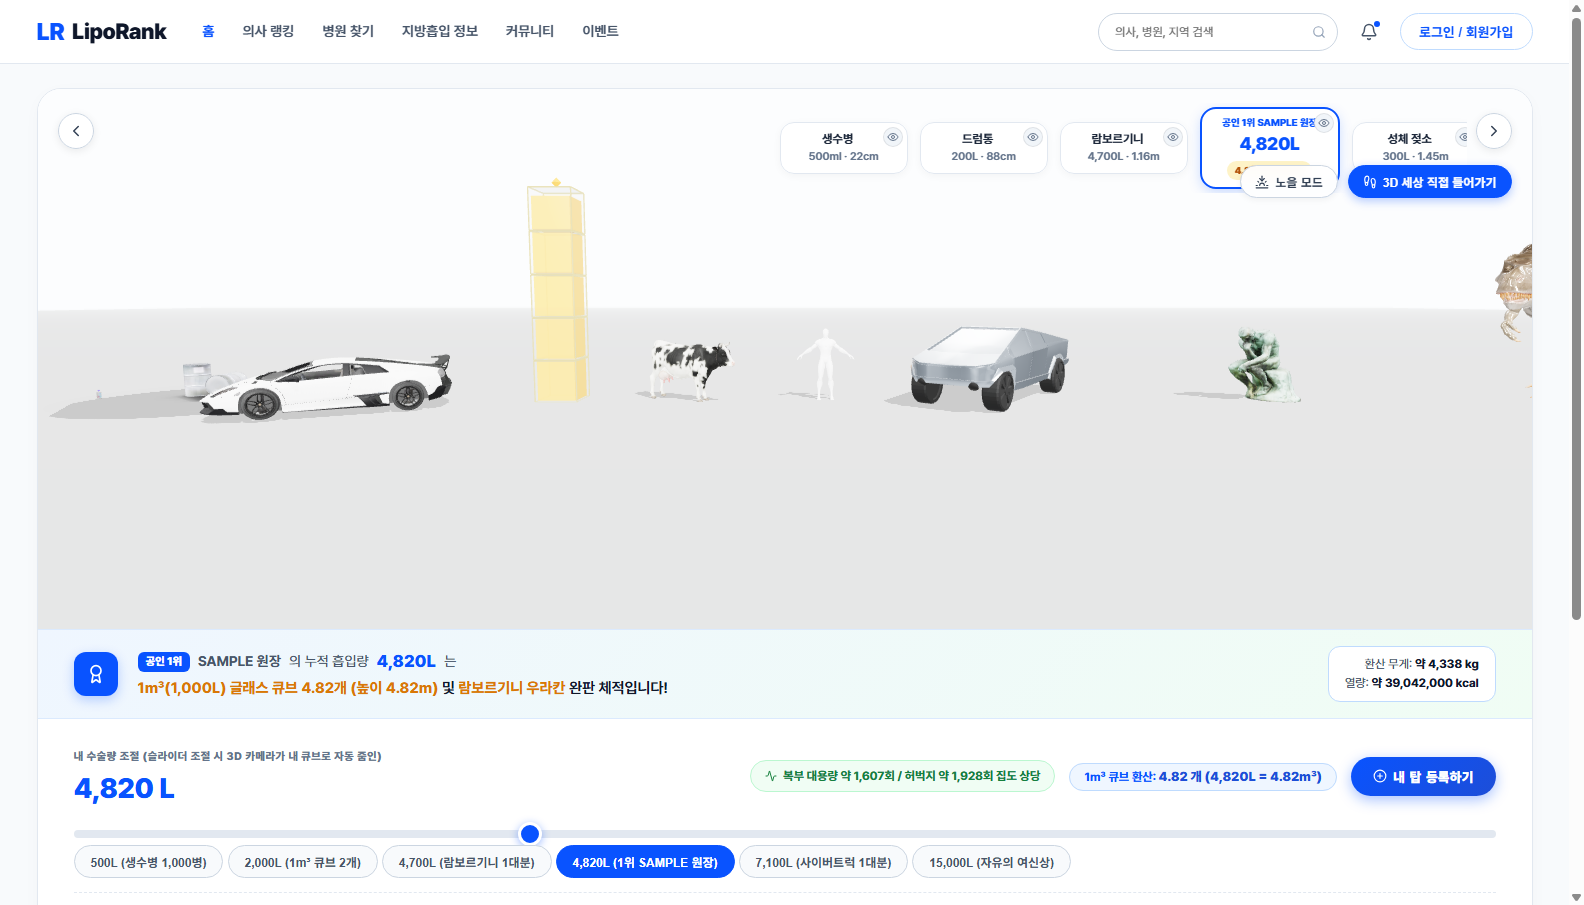
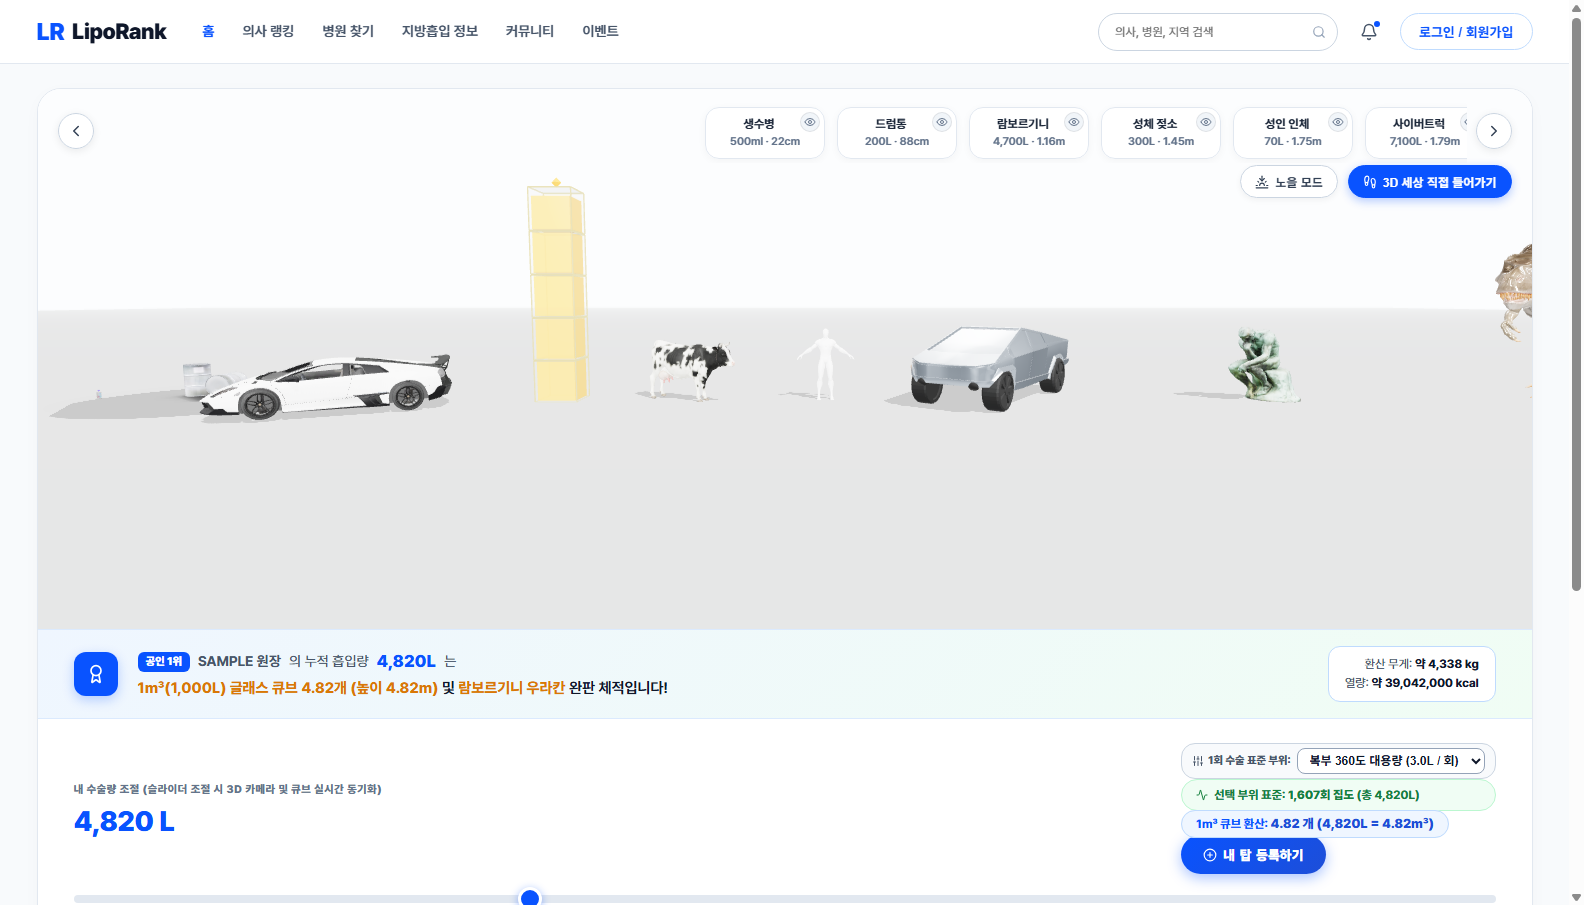
feat: real-time part standardizer (admerest formula style), sequential 5-item ribbon without sample tower, keep ribbon in giant view, esc centers on viewed object, smooth cube height sync

Changed region(s): [[0.0309, 0.8044, 0.959, 1.0], [0.464, 0.1238, 0.928, 0.2166], [0.9899, 0.6497, 1.0, 0.6807]]

diff --git a/app.js b/app.js
@@ -169,23 +169,27 @@ class LipoRankApp {
       });
     });
 
-    // 3. Carousel Navigation (< and >)
+    // 3. Carousel Navigation (< and >): Scroll ribbon by 1 item without moving 3D camera
     if (this.btnPrev) {
       this.btnPrev.addEventListener('click', () => {
-        const currIdx = COMPARISON_OBJECTS.findIndex(c => c.id === this.scene.activeObjectId);
-        const prevIdx = (currIdx - 1 + COMPARISON_OBJECTS.length) % COMPARISON_OBJECTS.length;
-        const targetId = COMPARISON_OBJECTS[prevIdx].id;
-        this.scene.enterGiantView(targetId);
-        this.updateObjectTabs(targetId);
+        if (!this.labelsOverlay) return;
+        const itemWidth = this.labelsOverlay.clientWidth / 5;
+        this.labelsOverlay.scrollBy({ left: -itemWidth, behavior: 'smooth' });
       });
     }
     if (this.btnNext) {
       this.btnNext.addEventListener('click', () => {
-        const currIdx = COMPARISON_OBJECTS.findIndex(c => c.id === this.scene.activeObjectId);
-        const nextIdx = (currIdx + 1) % COMPARISON_OBJECTS.length;
-        const targetId = COMPARISON_OBJECTS[nextIdx].id;
-        this.scene.enterGiantView(targetId);
-        this.updateObjectTabs(targetId);
+        if (!this.labelsOverlay) return;
+        const itemWidth = this.labelsOverlay.clientWidth / 5;
+        this.labelsOverlay.scrollBy({ left: itemWidth, behavior: 'smooth' });
+      });
+    }
+
+    // Realtime Standardizer Part Selector change listener
+    const selPart = document.getElementById('sel-surgery-part');
+    if (selPart) {
+      selPart.addEventListener('change', () => {
+        this.updateAllTexts(this.currentLiters, this.scene.activeObjectId);
       });
     }
 
@@ -339,14 +343,16 @@ class LipoRankApp {
     if (this.walkinHud) {
       this.walkinHud.classList.toggle('active', isWalkin);
     }
+    // Keep labelsOverlay visible in giant mode so user can click other tabs; hide only in walk-in mode
     if (this.labelsOverlay) {
-      this.labelsOverlay.classList.toggle('hidden', isGiant || isWalkin);
+      this.labelsOverlay.classList.toggle('hidden', isWalkin);
     }
     if (this.giantBtnText) {
       this.giantBtnText.textContent = (isWalkin || isGiant) ? '전체보기 복귀' : '3D 세상 직접 들어가기';
     }
     if (isGiant && cfg) {
       this.updateGiantCard(cfg.id);
+      this.updateObjectTabs(cfg.id);
     }
     this.refreshIcons();
   }
@@ -397,7 +403,12 @@ class LipoRankApp {
       this.cubeCountBadge.textContent = `${cubeCount} 개 (${formattedL}L = ${cubeCount}m³)`;
     }
 
-    // Update Clinical Surgery Equivalent Statistics (Body parts)
+    // Update Clinical Surgery Equivalent Statistics (Body parts with standard multiplier)
+    const selPart = document.getElementById('sel-surgery-part');
+    const partMultiplier = selPart ? parseFloat(selPart.value) || 3.0 : 3.0;
+    const partName = selPart ? selPart.options[selPart.selectedIndex].text.split('(')[0].trim() : '복부 360도';
+
+    const standardizedCases = Math.round(liters / partMultiplier);
     const abCases = Math.round(liters / 3.0); // 3,000cc
     const thighCases = Math.round(liters / 2.5); // 2,500cc
     const armCases = Math.round(liters / 1.0); // 1,000cc
@@ -405,18 +416,21 @@ class LipoRankApp {
 
     const equivSummary = document.getElementById('clinical-equiv-text');
     if (equivSummary) {
-      equivSummary.textContent = `복부 대용량 약 ${abCases.toLocaleString()}회 / 허벅지 약 ${thighCases.toLocaleString()}회 집도 상당`;
+      equivSummary.innerHTML = `선택 부위 표준: <strong>${standardizedCases.toLocaleString()}회 집도</strong> (총 ${formattedL}L)`;
     }
 
-    const abEl = document.getElementById('ab-count-text');
+    const formulaEl = document.getElementById('part-summary-formula');
+    if (formulaEl) {
+      formulaEl.innerHTML = `표준화 공식: 총 ${formattedL}L ÷ 1회 [${partName}] ${partMultiplier}L = <strong>총 ${standardizedCases.toLocaleString()}회 집도 실적</strong>`;
+    }
+
     const thighEl = document.getElementById('thigh-count-text');
     const armEl = document.getElementById('arm-count-text');
     const chinEl = document.getElementById('chin-count-text');
 
-    if (abEl) abEl.textContent = `약 ${abCases.toLocaleString()}회 집도분`;
-    if (thighEl) thighEl.textContent = `약 ${thighCases.toLocaleString()}회 집도분`;
-    if (armEl) armEl.textContent = `약 ${armCases.toLocaleString()}회 집도분`;
-    if (chinEl) chinEl.textContent = `약 ${chinCases.toLocaleString()}회 집도분`;
+    if (thighEl) thighEl.textContent = `${thighCases.toLocaleString()}회`;
+    if (armEl) armEl.textContent = `${armCases.toLocaleString()}회`;
+    if (chinEl) chinEl.textContent = `${chinCases.toLocaleString()}회`;
 
     if (this.centerHighlightAmount) {
       this.centerHighlightAmount.textContent = `${formattedL}L`;

diff --git a/index.html b/index.html
@@ -143,16 +143,6 @@
               <div class="label-title">람보르기니</div>
               <div class="label-vol">4,700L · 1.16m</div>
             </div>
-            
-            <!-- Center Permanent Official SAMPLE Tower -->
-            <div id="center-highlight-tab" class="center-highlight-box" data-object-id="sample_tower" title="공인 1위 SAMPLE 원장 1m³ 큐브 탑">
-              <button class="btn-vis-toggle" data-vis-id="sample_tower" title="공인 탑 숨기기/보이기">
-                <i data-lucide="eye" class="icon-xs"></i>
-              </button>
-              <div class="tag">공인 1위 SAMPLE 원장</div>
-              <div id="center-highlight-amount" class="amount">4,820L</div>
-              <div id="center-highlight-ratio" class="ratio-badge">4.82m 높이 돌파</div>
-            </div>
 
             <div class="object-label-tab" data-object-id="cow">
               <button class="btn-vis-toggle" data-vis-id="cow" title="가시성 토글">
@@ -257,15 +247,27 @@
         <div class="stage-bottom-strip">
           <div class="bottom-control-header">
             <div>
-              <span class="control-label">내 수술량 조절 (슬라이더 조절 시 3D 카메라가 내 큐브로 자동 줌인)</span>
+              <span class="control-label">내 수술량 조절 (슬라이더 조절 시 3D 카메라 및 큐브 실시간 동기화)</span>
               <div id="current-vol-text" class="vol-big-text">4,820 L</div>
             </div>
 
             <div class="bottom-cta-group">
-              <!-- Clinical Surgery Part Equivalent Badge -->
-              <div class="clinical-equiv-badge" id="clinical-equiv-badge" title="임상 기준 부위별 평균 환산">
+              <!-- Clinical Part Standardizer Selector (Admerest style) -->
+              <div class="part-standardizer-box">
+                <span class="standardizer-label"><i data-lucide="sliders" class="icon-xs"></i> 1회 수술 표준 부위:</span>
+                <select id="sel-surgery-part" class="sel-surgery-part">
+                  <option value="3.0" selected>복부 360도 대용량 (3.0L / 회)</option>
+                  <option value="2.5">허벅지 전체 둘레 (2.5L / 회)</option>
+                  <option value="1.0">팔뚝 및 부유방 (1.0L / 회)</option>
+                  <option value="0.5">러브핸들 국소 (0.5L / 회)</option>
+                  <option value="0.1">이중턱/얼굴 윤곽 (0.1L / 회)</option>
+                </select>
+              </div>
+
+              <!-- Standardized Cumulative Surgery Count Badge -->
+              <div class="clinical-equiv-badge" id="clinical-equiv-badge" title="선택한 부위 표준 추출량 기준 환산 총 수술 횟수">
                 <i data-lucide="activity" class="icon-xs"></i>
-                <span id="clinical-equiv-text">복부 대용량 약 1,607회 / 허벅지 약 1,928회 상당</span>
+                <span id="clinical-equiv-text">표준 환산 수술 횟수: <strong>1,607회</strong> (총 4,820L)</span>
               </div>
 
               <div class="unit-toggle">
@@ -294,10 +296,13 @@
 
           <!-- Clinical Surgery Equivalent Guide Panel -->
           <div class="clinical-info-strip">
-            <div class="clinical-pill"><span class="pill-dot abdomen"></span> 복부 360도 (평균 3,000cc): <strong id="ab-count-text">약 1,607회 집도분</strong></div>
-            <div class="clinical-pill"><span class="pill-dot thigh"></span> 허벅지 전체 (평균 2,500cc): <strong id="thigh-count-text">약 1,928회 집도분</strong></div>
-            <div class="clinical-pill"><span class="pill-dot arm"></span> 팔뚝/부유방 (평균 1,000cc): <strong id="arm-count-text">약 4,820회 집도분</strong></div>
-            <div class="clinical-pill"><span class="pill-dot chin"></span> 이중턱/얼굴 (평균 100cc): <strong id="chin-count-text">약 48,200회 집도분</strong></div>
+            <div class="clinical-pill active" id="pill-part-current">
+              <span class="pill-dot abdomen"></span>
+              <span id="part-summary-formula">공식: 총 흡입량 4,820L ÷ 1회 표준 3.0L = <strong>총 1,607회 집도 실적</strong></span>
+            </div>
+            <div class="clinical-pill"><span class="pill-dot thigh"></span> 허벅지(2.5L) 기준 시: <strong id="thigh-count-text">1,928회</strong></div>
+            <div class="clinical-pill"><span class="pill-dot arm"></span> 팔뚝(1.0L) 기준 시: <strong id="arm-count-text">4,820회</strong></div>
+            <div class="clinical-pill"><span class="pill-dot chin"></span> 이중턱(0.1L) 기준 시: <strong id="chin-count-text">48,200회</strong></div>
           </div>
         </div>
 

diff --git a/styles.css b/styles.css
@@ -407,7 +407,7 @@ body {
   background: var(--primary);
 }
 
-/* 5 Comparison Labels Overlay Ribbon (5 items visible at once, active in dead center) */
+/* 5 Comparison Labels Overlay Ribbon (Exactly 5 items visible, active in dead center) */
 .stage-labels-overlay {
   position: absolute;
   top: 14px;
@@ -420,7 +420,8 @@ body {
   overflow-x: auto;
   scroll-behavior: smooth;
   scrollbar-width: none;
-  padding: 4px calc(50% - 70px); /* Generous padding so any item can sit dead-center */
+  /* 2 items on left + 2 items on right = 4 items. So 2 * itemWidth padding on both sides */
+  padding: 4px calc((100% - 48px) * 0.4 + 24px);
   z-index: 15;
   transition: opacity 0.2s;
 }
@@ -436,12 +437,11 @@ body {
 
 .object-label-tab {
   position: relative;
-  flex: 0 0 calc((100% - 48px) / 5); /* Exactly 5 items in the visible window */
-  min-width: 128px;
-  max-width: 160px;
+  flex: 0 0 calc((100% - 48px) / 5); /* Exactly 5 items fit in container width */
+  min-width: 120px;
   text-align: center;
   cursor: pointer;
-  padding: 7px 10px;
+  padding: 7px 8px;
   border-radius: 14px;
   background: rgba(255, 255, 255, 0.94);
   border: 1px solid #e2e8f0;
@@ -739,10 +739,52 @@ body {
   margin-bottom: 12px;
 }
 
-.bottom-cta-group {
+/* Part Standardizer Select Box (Admerest style) */
+.part-standardizer-box {
   display: flex;
   align-items: center;
-  gap: 14px;
+  gap: 6px;
+  background: #f8fafc;
+  border: 1px solid #cbd5e1;
+  border-radius: 14px;
+  padding: 4px 10px;
+}
+
+.standardizer-label {
+  display: inline-flex;
+  align-items: center;
+  gap: 4px;
+  font-size: 11px;
+  font-weight: 800;
+  color: #475569;
+}
+
+.sel-surgery-part {
+  background: #ffffff;
+  border: 1px solid #94a3b8;
+  border-radius: 8px;
+  padding: 4px 8px;
+  font-size: 12px;
+  font-weight: 700;
+  color: #0f172a;
+  outline: none;
+  cursor: pointer;
+}
+
+.sel-surgery-part:focus {
+  border-color: var(--primary);
+  box-shadow: 0 0 0 2px rgba(9, 83, 255, 0.2);
+}
+
+.clinical-pill.active {
+  background: #eff6ff;
+  border-color: var(--primary-border);
+  color: #1e3a8a;
+  box-shadow: 0 2px 6px rgba(9, 83, 255, 0.1);
+}
+
+.clinical-pill.active strong {
+  color: var(--primary);
 }
 
 .btn-register-canvas-bottom {

diff --git a/scene.js b/scene.js
@@ -637,9 +637,26 @@ export class LipoRankScene {
 
   exitGiantView() {
     this.cameraMode = 'overview';
+
+    // If an object was active, center camera on that specific object
+    let targetX = -3.0;
+    let targetLookY = 1.0;
+    let camY = 2.5;
+    let camZ = 16.0;
+
+    if (this.activeObjectId) {
+      const cfg = this.objectConfigs.find(c => c.id === this.activeObjectId);
+      if (cfg && cfg.position) {
+        targetX = cfg.position[0];
+        targetLookY = (cfg.targetHeight || 1.8) * 0.5;
+        camY = Math.max(2.2, targetLookY + 1.0);
+        camZ = Math.max(7.0, (cfg.targetHeight || 1.8) * 2.8);
+      }
+    }
+
     this.startCameraTransition(
-      new THREE.Vector3(-3.0, 2.5, 16.0),
-      new THREE.Vector3(-3.0, 1.0, 0)
+      new THREE.Vector3(targetX, camY, camZ),
+      new THREE.Vector3(targetX, targetLookY, 0)
     );
     this.onCameraModeChange('overview', null);
   }
